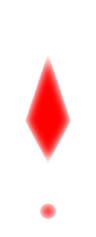
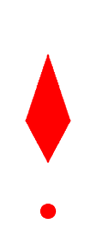
1. 화살표 헤드와 노드간 위치 조절 및 마우스 포인터의 위치가 화살표의 꼭지점에 위치하도록 조절 2. 활성화상태의 화살표 이미지 리소스 변경 3. 카드 사용후 화살표 사라질때 마우스 커서 돌아오도록 변경

Changed region(s): [[0.25, 0.2068, 0.75, 0.7089], [0.4062, 0.8565, 0.5938, 0.9451]]

diff --git a/Assets/Script/Card/CardCtrlArrow.cs b/Assets/Script/Card/CardCtrlArrow.cs
@@ -1,9 +1,6 @@
 using System.Collections;
 using System.Collections.Generic;
 using UnityEngine;
-using UnityEngine.Rendering;
-using UnityEngine.UI;
-using UnityEngine.EventSystems;
 using Mirror;
 using ProjectD;
 
@@ -49,11 +46,16 @@ public class CardCtrlArrow : NetworkBehaviour
     private void HandleArrowNodesTrasnform()
     {
         if(controlPoints.Count > 0){
-            // P3 is at the mouse position
             Vector3 mousePosition = Input.mousePosition; // 마우스 좌표 가져오기
             mousePosition.z = Camera.main.nearClipPlane; // 카메라가 바라보는 위치로 설정
             Vector3 worldPosition = Camera.main.ScreenToWorldPoint(mousePosition); // 화면 좌표를 월드 좌표로 변환
-            this.controlPoints[3] = worldPosition;
+
+            SpriteRenderer arrowHeadSpriteRenderer = this.arrowNodes[this.arrowNodes.Count - 1].GetComponent<SpriteRenderer>(); // 화살표 머리 오브젝트의 스프라이트 랜더러
+            float arrowHeadHeight = arrowHeadSpriteRenderer.bounds.size.y; // 화살표 머리의 스프라이트 랜더러 높이
+            Vector3 controlPoint2 = new Vector3(this.controlPoints[2].x, this.controlPoints[2].y, 0);
+            Vector3 arrowDirection = (worldPosition - controlPoint2).normalized; // 화살표가 향하는 방향
+            this.controlPoints[3] = worldPosition - arrowDirection * (arrowHeadHeight); //  P3(controlPoints[3])는 마우스 위치(화살표 머리의 위쪽 끝이 마우스 위치에 오도록 위치 보정)
+            
             if(arrowNodes.Count > 0){
                 for(int i=0; i<this.arrowNodes.Count; i++){
                     // Caculates t.
@@ -75,6 +77,15 @@ public class CardCtrlArrow : NetworkBehaviour
 
                     // The first arrow node's rotation
                     this.arrowNodes[0].transform.rotation = this.arrowNodes[1].transform.rotation;
+
+                    // 화살표 머리와 바로 이전 노드사이 위치 1.5배 더 떨어지도록 조절
+                    var lastNode = arrowNodes[arrowNodes.Count - 1];
+                    var prevLastNode = arrowNodes[arrowNodes.Count - 2];
+                    Vector3 direction = (lastNode.position - prevLastNode.position).normalized;
+                    float distance = Vector3.Distance(prevLastNode.position, lastNode.position);
+                    lastNode.position = prevLastNode.position + direction * distance * 1.5f;
+                    var finalEuler = new Vector3(0, 0, Vector2.SignedAngle(Vector2.up, lastNode.position - prevLastNode.position));
+                    lastNode.rotation = Quaternion.Euler(finalEuler);
                 }        
             }
             CalculateBezierCurvePoint();
@@ -200,7 +211,7 @@ public class CardCtrlArrow : NetworkBehaviour
                 var scale = this.scaleFactor * (0.4f - 0.02f * (this.arrowNodes.Count -1 -i));
                 this.arrowNodes[i].localScale = (i == (arrowNodes.Count-1)) 
                     ? new Vector3(scale + 0.5f, scale + 0.5f, 0f) // Arrow Head Scale
-                    : new Vector3(scale + 0.3f, scale + 0.3f, 0f); // Arrow Node Scale
+                    : new Vector3(scale + 0.35f, scale + 0.35f, 0f); // Arrow Node Scale
             }
         }
     }
@@ -210,5 +221,6 @@ public class CardCtrlArrow : NetworkBehaviour
     {
         ChangeArrowVisible(false, GameUIManager.instance.CardOnHandsPanel.transform); // 화살표 활성화 상태 변경
         M_CardManager.instance.CardOnHandThrowAwaySequence(arrowOwnedCardOnHand); // 화살표 주인 카드 제거
+        Cursor.visible = true;
     }
 }